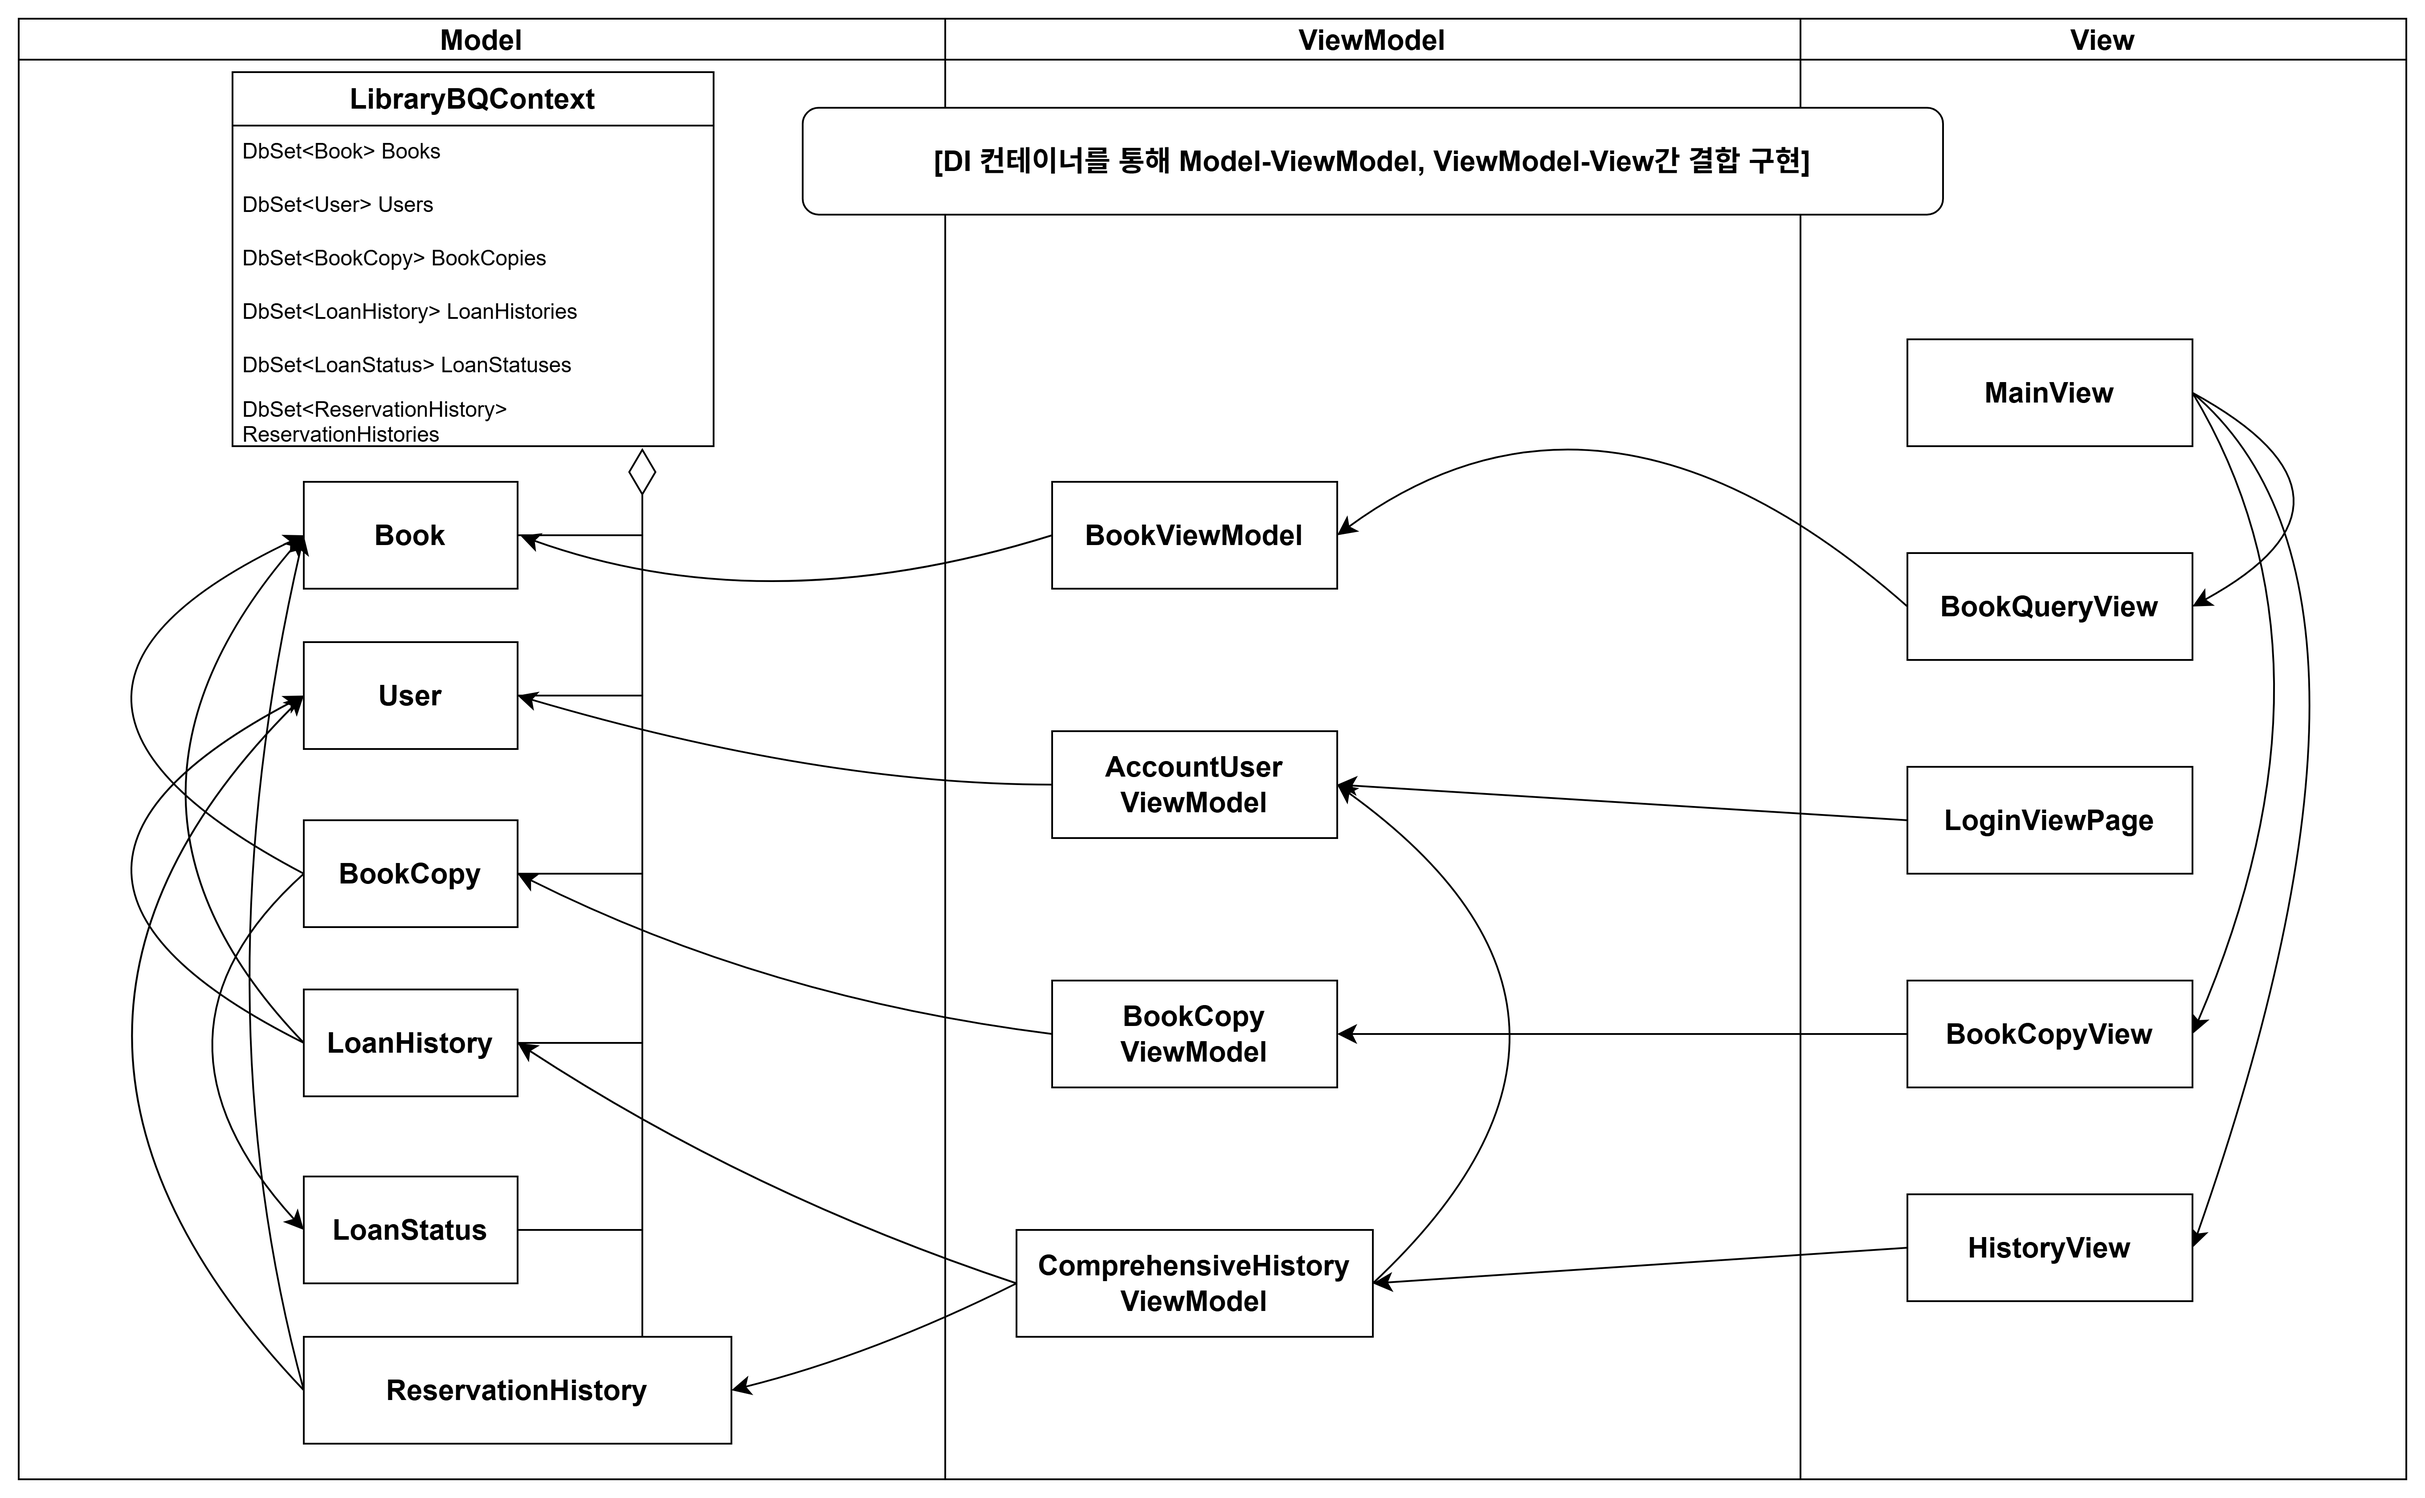
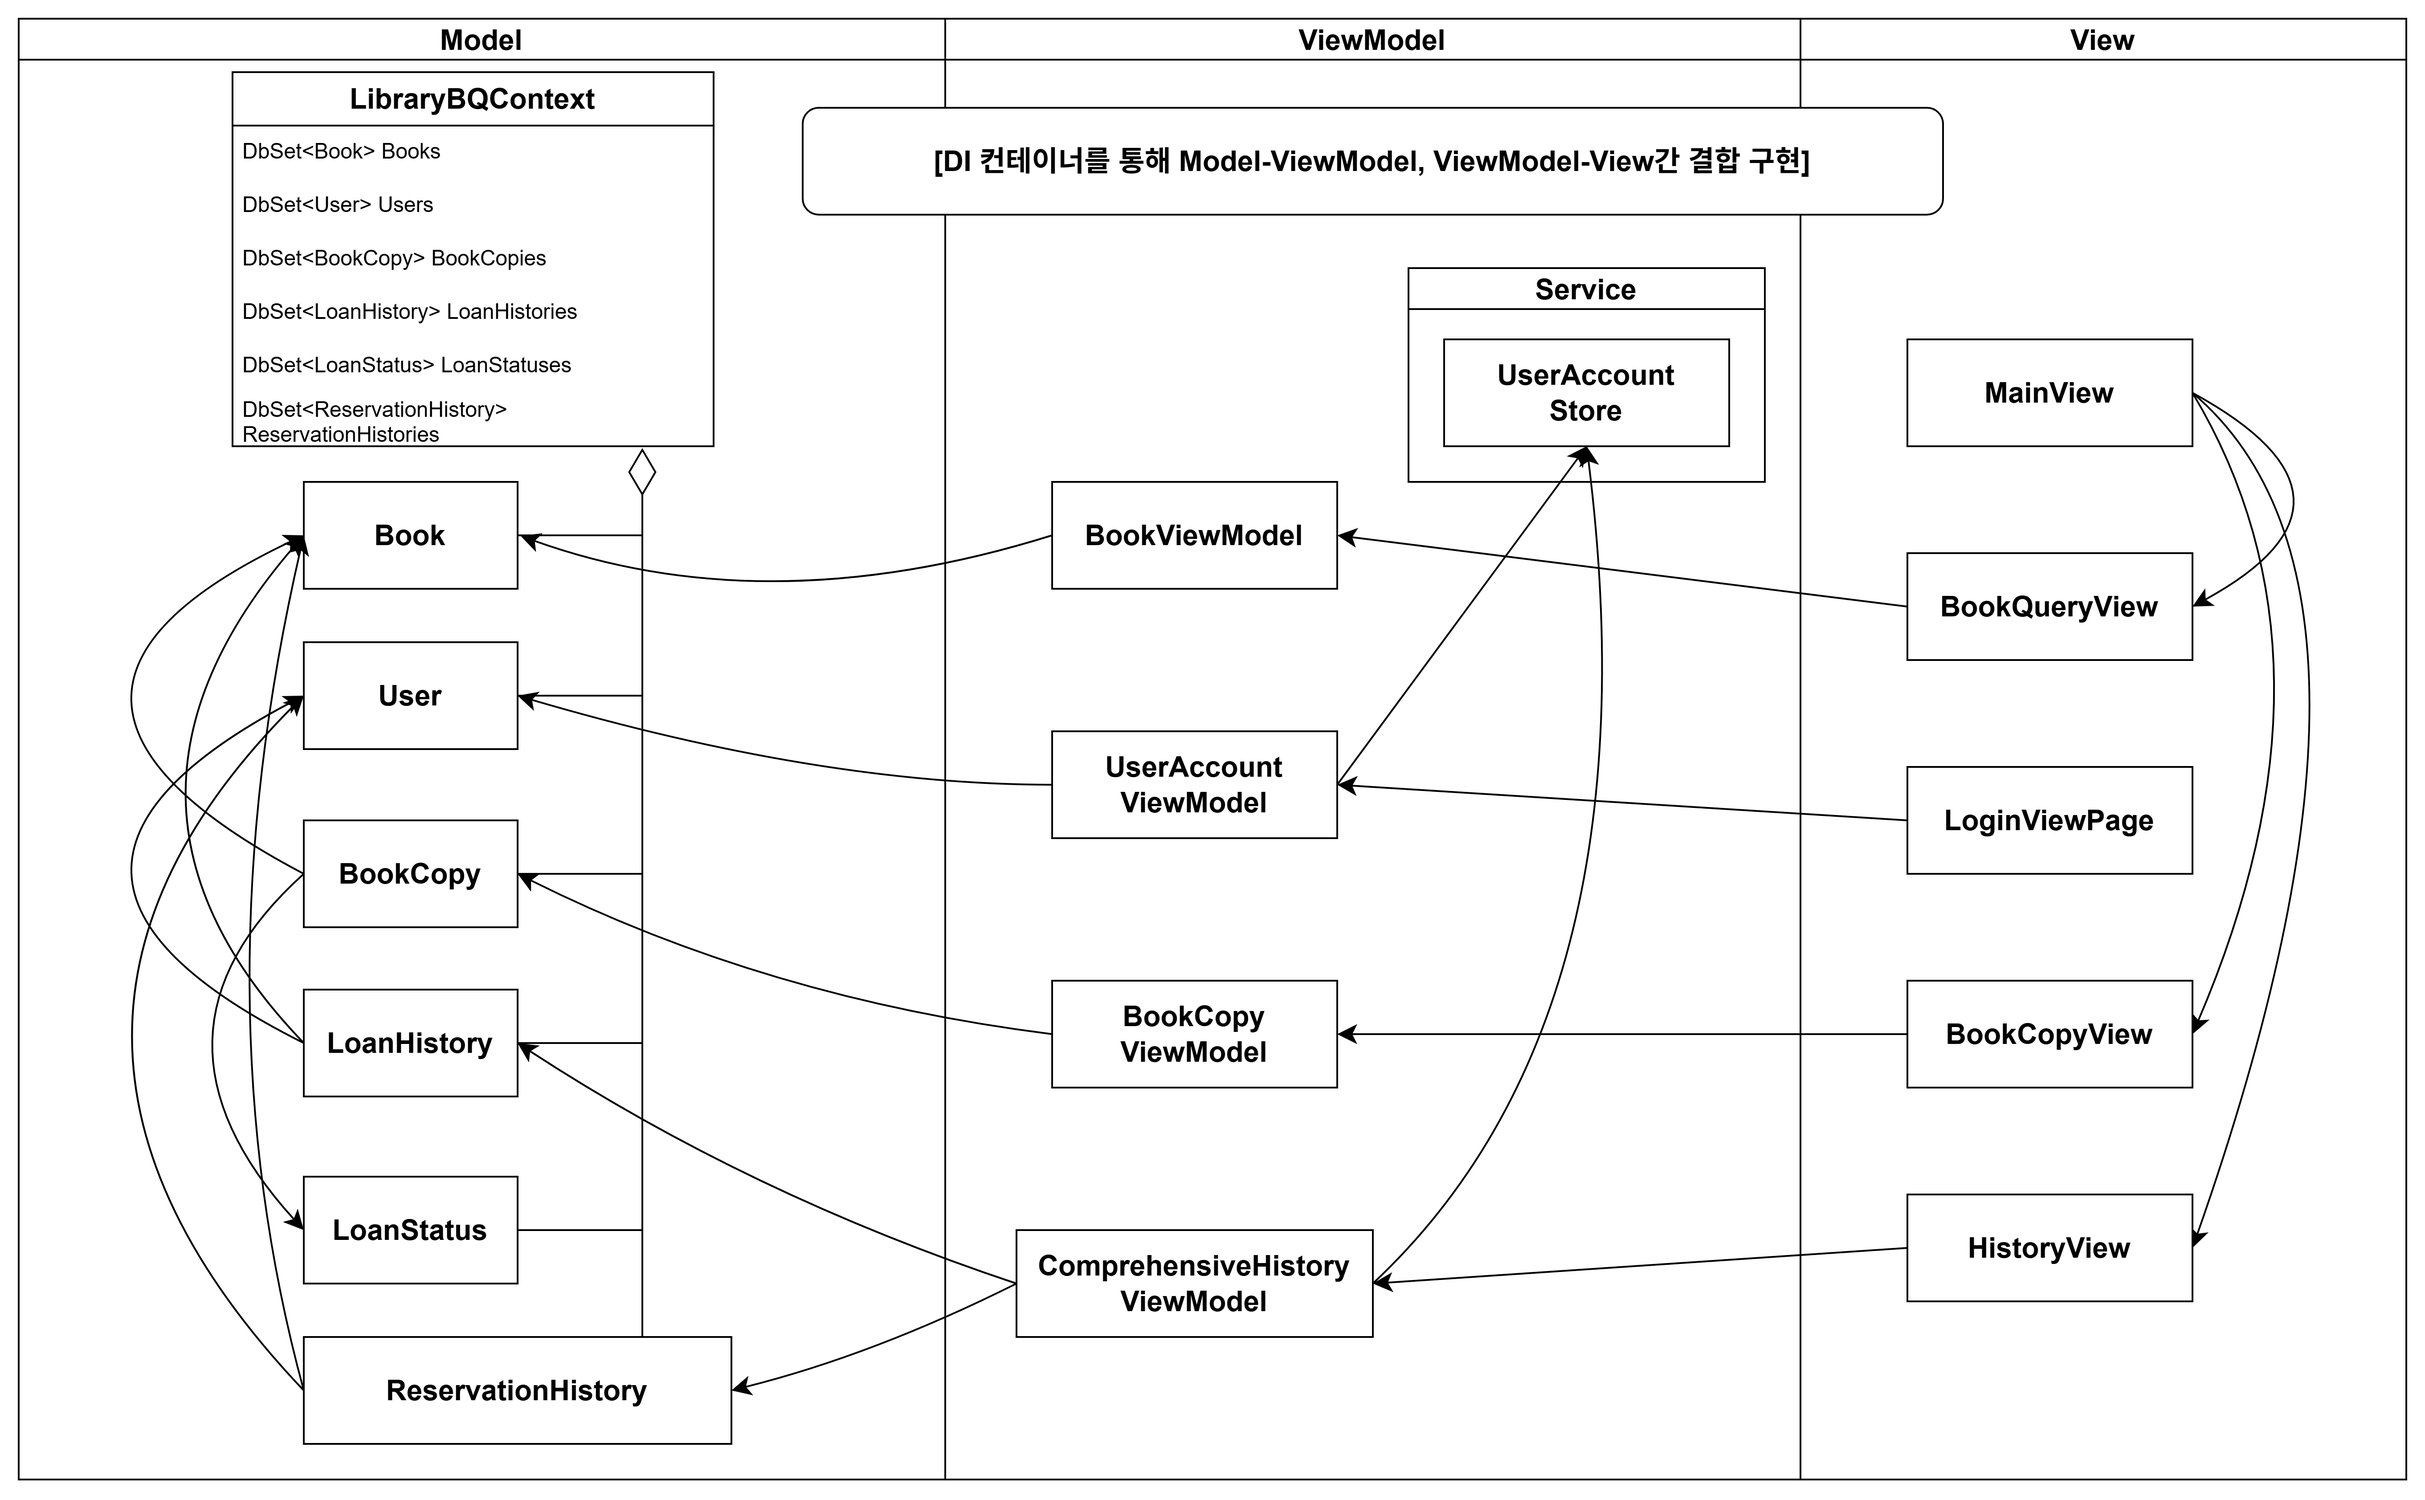
fate: UserAccount(로그인한 사용자 계정) 정보 처리 기본 구조 1. 여러 ViewModel이 공유하는 로그인 계정 정보를 Service 폴더-UserAccountStore 파일로 분리. 2. UserAccountStore에 싱글톤 패턴 적용. 3. UserAccountViewModel에서 UserAccountStore 인스턴스 생성, 해제(로그인, 로그아웃) 커멘드 베이스 구현.

diff --git a/LibraryBQ/ViewModel/UserAccountViewModel.cs b/LibraryBQ/ViewModel/UserAccountViewModel.cs
@@ -1,0 +1,53 @@
+using CommunityToolkit.Mvvm.ComponentModel;
+using CommunityToolkit.Mvvm.Input;
+using LibraryBQ.Model;
+using LibraryBQ.Service;
+using System;
+using System.Collections.Generic;
+using System.Linq;
+using System.Text;
+using System.Threading.Tasks;
+using System.Windows;
+
+namespace LibraryBQ.ViewModel
+{
+    // 로그인 처리 ViewModel
+    internal partial class UserAccountViewModel : ObservableObject
+    {
+        private UserAccountStore accountStore;
+
+        public UserAccountStore AccountStore
+        {
+            get => accountStore;
+            set => SetProperty(ref accountStore, value);
+        }
+
+        [RelayCommand] private void Login(string userNo, string password)
+        {
+            if (userNo.Trim() == "" || password.Trim() == "")
+            {
+                MessageBox.Show("필수 정보들을 입력해 주십시오.");
+            }
+            else
+            {
+                using (var db = new LibraryBQContext())
+                {
+                    User? LoginUser = db.Users.FirstOrDefault(x => x.UserNo == userNo && x.Password.Equals(password));
+                    if (LoginUser == null)
+                    {
+                        MessageBox.Show($"아이디 혹은 비밀번호가 틀립니다.\r\n다시 한번 확인해 주십시오.");
+                    }
+                    else
+                    {
+                        AccountStore = UserAccountStore.Instance(LoginUser);
+                    }
+                }
+            }
+        }
+
+        [RelayCommand] private void Logout()
+        {
+            UserAccountStore.DetachInstance();
+        }
+    }
+}

diff --git a/LibraryBQ/Service/UserAccountStore.cs b/LibraryBQ/Service/UserAccountStore.cs
@@ -1,0 +1,45 @@
+using CommunityToolkit.Mvvm.ComponentModel;
+using CommunityToolkit.Mvvm.Input;
+using LibraryBQ.Model;
+using System;
+using System.Collections.Generic;
+using System.Linq;
+using System.Text;
+using System.Threading.Tasks;
+
+namespace LibraryBQ.Service
+{
+    // 현재 로그인한 사용자 정보 저장 서비스
+    internal partial class UserAccountStore : ObservableObject
+    {
+        // 싱글톤 패턴 적용
+        static UserAccountStore userAccount;
+        private UserAccountStore(User _loginUser)
+        {
+            CurrentUserAccount = _loginUser;
+        }
+        public static UserAccountStore Instance(User _loginUser)
+        {
+            if (userAccount == null)
+            {
+                userAccount = new UserAccountStore(_loginUser);
+            }
+            return userAccount;
+        }
+        public static void DetachInstance()
+        {
+            if (userAccount != null)
+            {
+                userAccount = null;
+            }
+        }
+
+        private User? _currentUserAccount;
+
+        public User? CurrentUserAccount
+        {
+            get { return _currentUserAccount; }
+            set => SetProperty(ref _currentUserAccount, value);
+        }
+    }
+}
